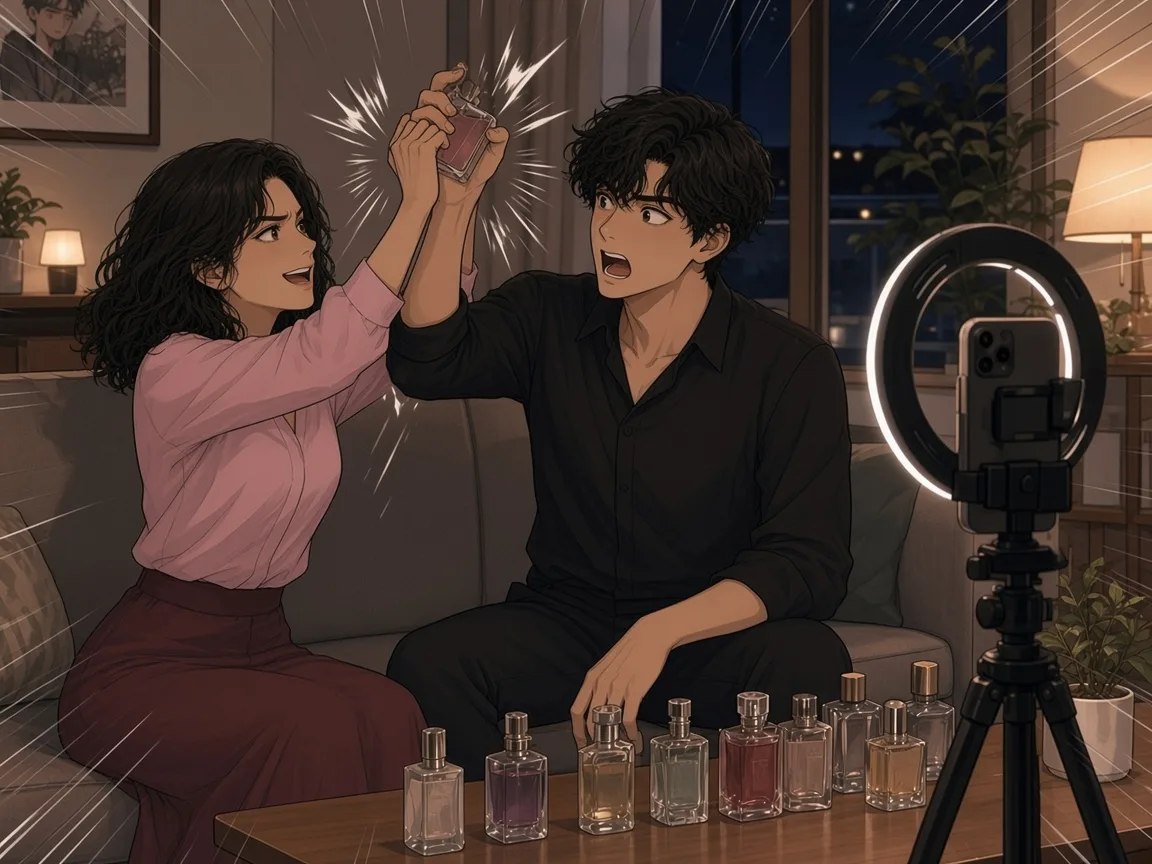
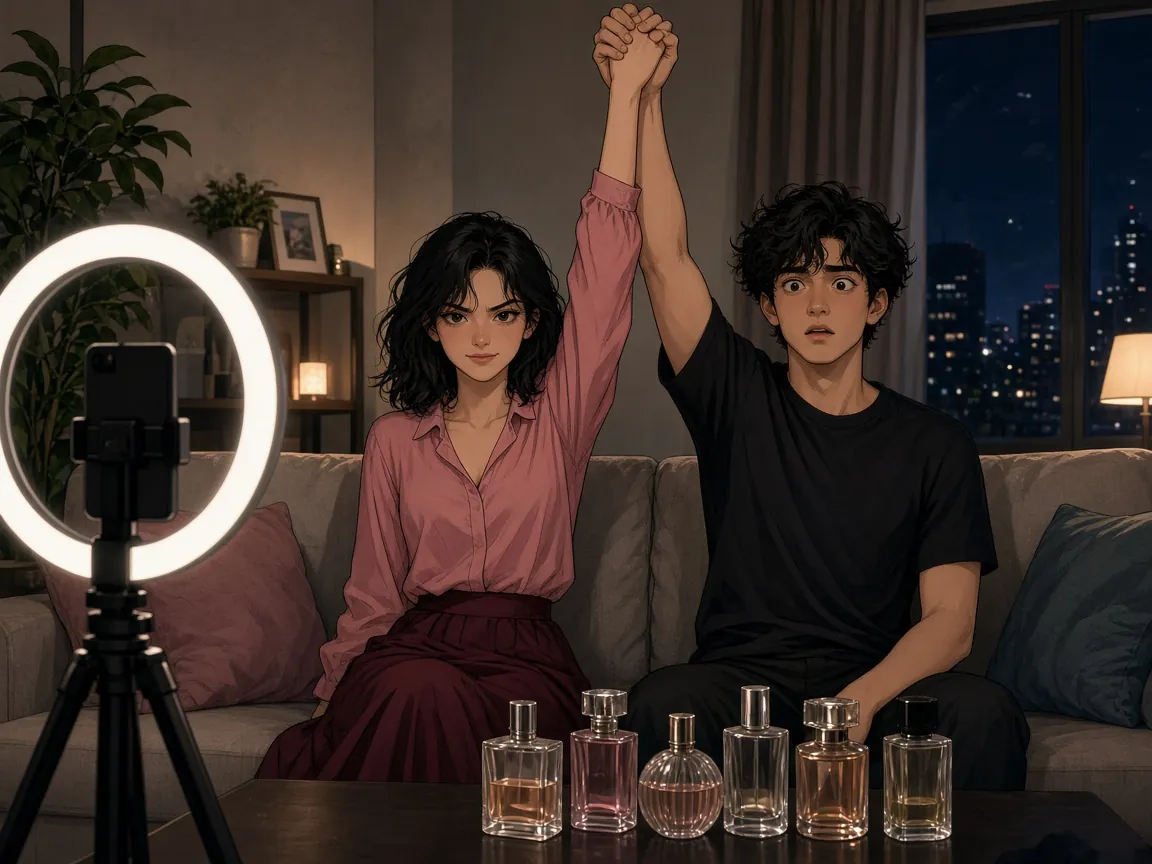
phone v4: image audit — fill imageless scenes, real gallery thumbs, fix mismatched images, show lines after gallery

diff --git a/phone/script-eps.js b/phone/script-eps.js
@@ -70,7 +70,7 @@ B.push(
  {k:'replay',th:'arya',n:4},
  {k:'inner',t:'Kuputar lagi. Dan lagi. Bagian “aku mau kamu yang minta”.|我又放了一遍。又一遍。“我想等你自己开口”那一句。'},
  {k:'gallery',clock:'06.30',seen:'seroja',t:'Kenangan · 10 tahun lalu hari ini|回忆 · 十年前的今天',focus:'p-seroja.webp',cap:'Konser perpisahan Seroja. Malam aku pingsan di lagu ketiga.|Seroja告别演唱会。我在第三首歌晕倒的那晚。',
-  items:[{img:'p-costume.webp',cap:'Sayap Mila (dijahit ulang)|Mila的翅膀（重新缝好）'},{c:'#f6d2c8',e:'🎂'},{c:'#c8dff6',e:'🏖'},{c:'#e8e0c8',e:'📄'},{img:'p-live.webp',cap:'Live, Kamis|周四直播'},{c:'#d8c8f6',e:'🎤'},{c:'#c8f6d8',e:'🌿'},{c:'#f6eec8',e:'⭐'}]},
+  items:[{img:'g-cake.webp',cap:'Ulang tahun Mila|Mila的生日'},{img:'g-beach.webp',cap:'Pantai, bertiga|海边，我们三个'},{img:'g-rehearsal.webp',cap:'Latihan Seroja · 10 tahun lalu|Seroja排练 · 十年前'},{img:'p-live.webp',cap:'Live, Kamis|周四直播'},{img:'g-dance.webp',cap:'Kelas tari Hana|Hana的舞蹈课'},{img:'g-perfume.webp',cap:'Stok parfum untuk live|直播用的香水'},{img:'g-balcony.webp',cap:'Balkon, sore|傍晚的阳台'},{img:'g-sleep.webp',cap:'Mereka tidur duluan|她们先睡着了'}]},
  {k:'inner',t:'Aku nggak pernah ingat siapa yang menangkapku. Cuma lampu.|我一直不记得是谁接住了我。只记得灯光。'},
  {k:'msg',th:'salma',clock:'06.41',time:'06.41',t:'Kak, semalam aku nggak bisa tidur mikirin kamu. Jangan bales DM aneh-aneh ya :)|姐，昨晚我一直想着你睡不着。别回那些奇怪的私信哦 :)'},
  {k:'inner',fx:'shake',t:'DM aneh? Aku belum cerita ke siapa pun soal DM itu.|奇怪的私信？那条私信的事，我还没跟任何人说过。'},
@@ -91,7 +91,7 @@ B.push(
  {k:'msg',th:'arya',time:'15.25',t:'Aku pakai kemeja. Dikancing sampai atas. Biar ibu-ibu tenang 😇|我穿了衬衫。扣子扣到最上面。让妈妈们安心😇'},
  {k:'msg',th:'arya',time:'15.25',gone:true,t:'Nanti kamu yang buka—|等会儿你来解开——'},
  {k:'inner',t:'Dihapus dalam dua detik. Aku sudah baca. Dia tahu aku sudah baca.|两秒就撤回了。我已经看到了。他知道我看到了。'},
- {k:'scene',clock:'15.40',tag:'15.40 · Aula SD Tunas Bangsa|15:40 · Tunas Bangsa小学礼堂',tint:'warm',lines:['Kursi B12. Di B11, sebuah tas krem sudah duduk lebih dulu.|B12座。B11上，一只米色手袋已经先坐下了。','Bu Ratna tersenyum seperti baru memenangkan sesuatu.|Ratna太太笑得像刚赢了什么。'],inner:'Raka di B14. Dia nggak menatapku.|Raka坐在B14。他没看我。'},
+ {k:'scene',clock:'15.40',tag:'15.40 · Aula SD Tunas Bangsa|15:40 · Tunas Bangsa小学礼堂',tint:'warm',img:'p-hall.webp',lines:['Kursi B12. Di B11, sebuah tas krem sudah duduk lebih dulu.|B12座。B11上，一只米色手袋已经先坐下了。','Bu Ratna tersenyum seperti baru memenangkan sesuatu.|Ratna太太笑得像刚赢了什么。'],inner:'Raka di B14. Dia nggak menatapku.|Raka坐在B14。他没看我。'},
  {k:'say',who:'R',ex:'neutral',t:'Ini Arya, ya? Masih kuliah, Nak?|你就是Arya吧？还在念书吗，孩子？'},
  {k:'say',who:'A',ex:'neutral',t:'Sudah kerja, Bu. Dua puluh delapan.|已经工作了，阿姨。二十八岁。'},
  {k:'say',who:'R',ex:'determined',t:'Oh. Barisan ini untuk keluarga. Kamu berdiri di belakang saja, ya.|哦。这排是家属座。你站后面吧。'},
@@ -131,7 +131,7 @@ B.push(
  {k:'msg',th:'raka',time:'16.45',t:'Dan berhenti nuduh Ibu soal foto-foto itu. Ibu bahkan nggak main Lensa.|还有，别再拿那些照片怀疑我妈。她连Lensa都不用。'},
  {k:'msg',th:'arya',clock:'17.05',time:'17.05',when:'e3seat=2',t:'Mobilmu panas banget. Kayak kamu tadi, pas bilang “dia 28”.|你的车好烫。就像你刚才说“他28”的时候。'},
  {k:'msg',th:'arya',clock:'17.05',time:'17.05',when:'e3seat!=2',t:'Mobilmu panas banget. Kayak tanganmu tadi.|你的车好烫。就像你刚才的手。'},
- {k:'scene',clock:'17.06',tag:'17.06 · Parkiran sekolah|17:06 · 学校停车场',tint:'warm',img:'p-carpark.webp',lines:['Pintu mobil membakar punggungku lewat blus tipis.|车门隔着薄衬衫烫着我的背。','Satu tangan Arya di atap mobil. Tangan lain di pinggangku.|Arya一只手撑在车顶，另一只手搭在我腰上。'],inner:'Anak-anak sudah pulang bersama neneknya. Untuk pertama kalinya hari ini, nggak ada yang menonton. Kukira.|孩子们已经跟奶奶回去了。今天第一次，没有人在看。我以为。'},
+ {k:'scene',clock:'17.06',tag:'17.06 · Parkiran sekolah|17:06 · 学校停车场',tint:'warm',img:'p-carpark-close.webp',lines:['Pintu mobil membakar punggungku lewat blus tipis.|车门隔着薄衬衫烫着我的背。','Satu tangan Arya di atap mobil. Tangan lain di pinggangku.|Arya一只手撑在车顶，另一只手搭在我腰上。'],inner:'Anak-anak sudah pulang bersama neneknya. Untuk pertama kalinya hari ini, nggak ada yang menonton. Kukira.|孩子们已经跟奶奶回去了。今天第一次，没有人在看。我以为。'},
  {k:'say',who:'A',ex:'soft',t:'Aku sudah sopan seharian, Kak. Boleh nggak sopan sekarang?|我规矩了一整天，姐。现在可以不规矩了吗？'},
  {k:'choice',key:'e3kiss',
   opts:[
@@ -150,14 +150,14 @@ B.push(
  {k:'msg',th:'salma',clock:'22.15',time:'22.15',t:'Kak, kamu baik-baik aja? Feeling-ku nggak enak malam ini :)|姐，你还好吗？我今晚总有种不好的预感 :)'},
  {k:'inner',t:'Salma selalu punya “feeling”. Dan selalu tepat waktu.|Salma总是有“预感”。而且总是来得刚刚好。'},
  {k:'lock',clock:'23.59',fx:'shake',notifs:[
-   {app:'Lensa',title:'@akungosip|@akungosip',thumb:'p-carpark.webp',t:'menandaimu: “Ciuman panas di parkiran sekolah anak 🔥”|标记了你：“在孩子学校停车场热吻🔥”',time:'23.58'},
+   {app:'Lensa',title:'@akungosip|@akungosip',thumb:'p-carpark-pap.webp',t:'menandaimu: “Ciuman panas di parkiran sekolah anak 🔥”|标记了你：“在孩子学校停车场热吻🔥”',time:'23.58'},
    {app:'Lensa',title:'ratna.wibisana|ratna.wibisana',t:'menyukai postingan @akungosip yang menandaimu|赞了@akungosip标记你的帖子',time:'23.59'}]},
  {k:'inner',fx:'shake',t:'“Ibu bahkan nggak main Lensa,” kata Raka. Akun itu dibuat tahun 2019.|“她连Lensa都不用，”Raka说。那个账号是2019年注册的。'},
  {k:'epend',ep:3,tease:'Pagi ini fotomu ditonton sejuta orang. Lumière menelepon — mereka mau Arya. Dengan mantannya.|今天早上，你的照片被一百万人看到。Lumière打来电话——他们要Arya。和他的前女友一起。'},
 
 // ================= EP 4 =================
  {k:'ep',ep:4,clock:'08.02',day:'Sabtu|星期六',prev:'Ciuman di parkiran. Kilat kamera. Dan “like” dari mantan mertua yang katanya gaptek.|停车场的吻。相机的闪光。还有据说不会用手机的前婆婆点的一个赞。'},
- {k:'lensa',fresh:true,clock:'08.02',post:{by:'@akungosip',img:'p-carpark.webp',views:'1,2 jt tayangan|120万次观看',likes:'Disukai ratna.wibisana dan 88.410 lainnya|ratna.wibisana 和其他 88,410 人赞了',cap:'Ciuman panas di parkiran sekolah anak 🔥 Janda vs brondong, ronde 2.|在孩子学校停车场热吻🔥 离婚妈妈vs小鲜肉，第二回合。'},
+ {k:'lensa',fresh:true,clock:'08.02',post:{by:'@akungosip',img:'p-carpark-pap.webp',views:'1,2 jt tayangan|120万次观看',likes:'Disukai ratna.wibisana dan 88.410 lainnya|ratna.wibisana 和其他 88,410 人赞了',cap:'Ciuman panas di parkiran sekolah anak 🔥 Janda vs brondong, ronde 2.|在孩子学校停车场热吻🔥 离婚妈妈vs小鲜肉，第二回合。'},
   cmts:['@tante_julid: Di sekolah anak?? 🤢|@tante_julid：在孩子学校？？🤢','@hanya_lewat: Jujur… mereka cocok 😭|@hanya_lewat：说实话……他们好配😭','@sheila.kirana: Dia masih cium kayak gitu ya 🖤|@sheila.kirana：他还是那样吻人啊🖤']},
  {k:'inner',t:'sheila.kirana. Dua juta pengikut. Mantannya Arya.|sheila.kirana。两百万粉丝。Arya的前任。'},
  {k:'msg',th:'group',clock:'08.03',time:'08.03',from:'Bu Sinta|Sinta太太',t:'Sudah sejuta views ya Bu-ibu 🍿 Sekolah harus tegas!|已经一百万播放了各位🍿 学校必须严肃处理！'},
@@ -166,7 +166,7 @@ B.push(
  {k:'line',who:'Y',t:'Lihat angkanya? Satu koma dua juta. Lumière telepon jam enam pagi.|看到数字了吗？一百二十万。Lumière早上六点就打来了。'},
  {k:'line',who:'N',t:'Mereka mau batalin semuanya?|他们要全部取消？'},
  {k:'line',who:'Y',t:'Kebalikannya. Mereka mau Arya jadi wajah parfum baru. Tapi pasangannya bukan kamu — Sheila.|恰恰相反。他们要Arya做新香水的代言人。但搭档不是你——是Sheila。'},
- {k:'scene',clock:'10.00',tag:'10.00 · Ruang rapat Lumière, lantai 21|10:00 · Lumière会议室，21楼',tint:'cold',lines:['Botol parfum di tengah meja. Label: No.7.|会议桌中间摆着香水瓶。标签：No.7。','Sheila sudah duduk di sebelah Arya. Kursiku di seberang.|Sheila已经坐在Arya旁边。我的位子在对面。'],inner:'Maya duduk di ujung meja, tenang sekali. Terlalu tenang.|Maya坐在桌子一头，非常平静。平静得过头了。'},
+ {k:'scene',clock:'10.00',tag:'10.00 · Ruang rapat Lumière, lantai 21|10:00 · Lumière会议室，21楼',tint:'cold',img:'p-meeting.webp',lines:['Botol parfum di tengah meja. Label: No.7.|会议桌中间摆着香水瓶。标签：No.7。','Sheila sudah duduk di sebelah Arya. Kursiku di seberang.|Sheila已经坐在Arya旁边。我的位子在对面。'],inner:'Maya duduk di ujung meja, tenang sekali. Terlalu tenang.|Maya坐在桌子一头，非常平静。平静得过头了。'},
  {k:'say',who:'SH',t:'Kak Nadira! Aku fans Seroja dari SD lho 🖤|Nadira姐！我从小学就是Seroja的粉丝哦🖤'},
  {k:'scap',t:'Dari SD. Dia memastikan semua orang di ruangan menghitung umurku.|从小学。她确保在场每个人都算了一遍我的年龄。'},
  {k:'msg',th:'arya',clock:'10.06',time:'10.06',t:'(di bawah meja) Dia pakai No.7 sengaja. Aku nggak pernah pakai lagi sejak ketemu kamu.|（桌子底下）她故意喷No.7的。自从遇见你，我再没用过。'},
@@ -200,7 +200,7 @@ B.push(
    {t:'“Parfumnya sudah ganti, Dek. Sejak ketemu aku.”|“香水早换了，妹妹。从遇见我开始。”',a:1,re:[
      {k:'scap',t:'Sheila tertawa kecil. Arya nggak membantah.|Sheila轻笑一声。Arya没有反驳。'},
      {k:'say',who:'A',ex:'soft',t:'Benar. Sudah ganti.|没错。早换了。'}]}]},
- {k:'live',fresh:true,clock:'20.00',img:'p-live.webp',viewers:31200,cmt:'@kolom_komentar: KAK NADIRA SAMA ARYA LAGI 🔥|@kolom_komentar：Nadira姐和Arya又同框了🔥'},
+ {k:'live',fresh:true,clock:'20.00',img:'p-live-studio.webp',viewers:31200,cmt:'@kolom_komentar: KAK NADIRA SAMA ARYA LAGI 🔥|@kolom_komentar：Nadira姐和Arya又同框了🔥'},
  {k:'live',viewers:52800,gift:'💐',cmt:'@sheila.kirana bergabung sebagai tamu ✨|@sheila.kirana 作为嘉宾加入✨'},
  {k:'live',viewers:61400,cmt:'@tante_julid: Mertuanya nangis di rumah, dia live pacaran 🙄|@tante_julid：婆婆在家哭，她在直播谈恋爱🙄'},
  {k:'live',viewers:66800,gift:'🌹',cmt:'@salma.r: Kak Nadira ❤ semangat! (aku rekam ya buat kenangan)|@salma.r：Nadira姐❤加油！（我录下来留念哦）'},
@@ -245,7 +245,7 @@ B.push(
  {k:'msg',th:'arya',clock:'00.22',time:'00.22',t:'Aku lagi antre bubur dekat rumahmu. Kamu belum makan dari siang, kan.|我在你家附近排队买粥。你从中午就没吃东西吧。'},
  {k:'msg',th:'arya',time:'00.22',t:'Bilang aja “jangan”, nanti aku taruh di pagar terus pulang.|你说“别来”，我就把粥挂在门上然后回去。'},
  {k:'inner',t:'Aku nggak membalas. Raka sudah berdiri di depan pintu.|我没回。Raka已经站在门口了。'},
- {k:'scene',clock:'00.24',tag:'00.24 · Ruang tamu, dua mug|00:24 · 客厅，两只马克杯',tint:'night',lines:['Raka membuka map. Satu baris dilingkari merah: Rp1,8 juta.|Raka打开文件夹。一行被红笔圈了出来：180万。','“Les tari Hana. Dari rekening bersama. Untuk siapa sebenarnya?”|“Hana的舞蹈课。从共同账户付的。到底花在谁身上？”'],inner:'Anak-anak tidur di rumah neneknya. Rumah ini terlalu sunyi untuk bertengkar.|孩子们睡在奶奶家。这房子太安静了，不适合吵架。'},
+ {k:'scene',clock:'00.24',tag:'00.24 · Ruang tamu, dua mug|00:24 · 客厅，两只马克杯',tint:'night',img:'p-raka-folder.webp',lines:['Raka membuka map. Satu baris dilingkari merah: Rp1,8 juta.|Raka打开文件夹。一行被红笔圈了出来：180万。','“Les tari Hana. Dari rekening bersama. Untuk siapa sebenarnya?”|“Hana的舞蹈课。从共同账户付的。到底花在谁身上？”'],inner:'Anak-anak tidur di rumah neneknya. Rumah ini terlalu sunyi untuk bertengkar.|孩子们睡在奶奶家。这房子太安静了，不适合吵架。'},
  {k:'say',who:'K',ex:'angry',t:'Ibu bilang kamu pakai uang anak-anak buat laki-laki itu.|妈说你拿孩子们的钱养那个男人。'},
  {k:'choice',key:'e5bill',
   opts:[
@@ -263,7 +263,7 @@ B.push(
  {k:'inner',fx:'shake',t:'Deskripsi grupnya. Kalimat yang dua hari ini diketik Nadira yang lama untukku.|群简介。这两天以前的Nadira一直替我打的那句话。'},
  {k:'inner',t:'Itu bukan suaraku. Itu suara keluarga ini. Sembilan tahun aku memakainya.|那不是我的声音。是这个家的声音。我用了九年。'},
  {k:'wallet',clock:'00.40',ok:true,merchant:'Transfer masuk · RAKA PRADANA|转入 · RAKA PRADANA',amt:'Rp95.000.000',t:'Catatan: “Sisa tagihan sekolah. Maaf.”|备注：“学费余款。对不起。”'},
- {k:'scene',clock:'00.42',tag:'00.42 · Dua mug di meja|00:42 · 桌上两只马克杯',tint:'night',lines:['Yang biru punya dia, sembilan tahun. Dia masih memegangnya dengan tangan kiri.|蓝色那只是他的，用了九年。他还是用左手拿。','Lalu, pelan sekali:|然后，很轻地：']},
+ {k:'scene',clock:'00.42',tag:'00.42 · Dua mug di meja|00:42 · 桌上两只马克杯',tint:'night',img:'p-mugs.webp',lines:['Yang biru punya dia, sembilan tahun. Dia masih memegangnya dengan tangan kiri.|蓝色那只是他的，用了九年。他还是用左手拿。','Lalu, pelan sekali:|然后，很轻地：']},
  {k:'say',who:'K',ex:'neutral',t:'Kenapa kamu pergi, Nad?|你为什么要走，Nad？'},
  {k:'choice',key:'e5why',
   opts:[
@@ -276,7 +276,7 @@ B.push(
    {t:'“Kamu selalu memilih ibumu.”|“你永远站在你妈那边。”',re:[
      {k:'say',who:'K',ex:'angry',t:'Itu nggak adil.|这不公平。'},
      {k:'say',who:'N',ex:'determined',t:'Grup keluargamu punya motto, Raka. Aku hafal.|你们家族群有座右铭，Raka。我背得出来。'}]}]},
- {k:'scene',clock:'00.58',tag:'00.58 · Pintu depan|00:58 · 大门口',tint:'night',lines:['Raka berhenti di ambang pintu. Dia nggak menoleh.|Raka在门口停下。没有回头。','Hujan mulai turun di paving.|雨开始落在地砖上。']},
+ {k:'scene',clock:'00.58',tag:'00.58 · Pagar depan|00:58 · 院门口',tint:'night',img:'p-gate-night.webp',lines:['Raka berhenti di pagar. Dia nggak menoleh.|Raka在院门口停下。没有回头。','Hujan mulai turun di paving.|雨开始落在地砖上。']},
  {k:'say',who:'K',ex:'angry',t:'Satu lagi. Ibu bilang kamu sudah tidur sama dia sebelum kita cerai.|还有一件事。妈说你在我们离婚之前就跟他睡过了。'},
  {k:'scap',img:'p-porridge.webp',fx:'shake',t:'Plastik jatuh di pagar. Bubur ayam tumpah ke paving yang basah.|塑料袋掉在门口。鸡肉粥洒在湿漉漉的地砖上。'},
  {k:'say',who:'K',ex:'angry',t:'Tanya sendiri sama dia, Dek. Sejak kapan.|你自己问她吧，小弟。从什么时候开始的。'},
@@ -300,7 +300,7 @@ B.push(
  {k:'msg',th:'arya',mine:true,time:'01.24',t:'Tunggu. Aku turun.|等着。我下来。'},
  {k:'msg',th:'arya',time:'01.24',t:'Pakai jaket. Dan payung. Dan… nggak usah dandan.|穿外套。带伞。还有……不用化妆。'},
  {k:'msg',th:'arya',time:'01.25',t:'Aku beli bubur lagi. Yang tanpa kacang.|我又买了粥。不放花生的。'},
- {k:'scene',clock:'01.31',tag:'01.31 · Warung bubur, hujan deras|01:31 · 粥摊，大雨',tint:'night',lines:['Terpal biru, satu bohlam, panci yang mengepul.|蓝色篷布，一只灯泡，冒着热气的锅。','Arya menyodorkan mangkuk. Tanpa kacang. Dia ingat.|Arya把碗推过来。没放花生。他记得。'],inner:'Aku nggak pernah bilang ke dia aku nggak suka kacang.|我从没跟他说过我不吃花生。'},
+ {k:'scene',clock:'01.31',tag:'01.31 · Warung bubur, hujan deras|01:31 · 粥摊，大雨',tint:'night',img:'p-stall.webp',lines:['Terpal biru, satu bohlam, panci yang mengepul.|蓝色篷布，一只灯泡，冒着热气的锅。','Arya menyodorkan mangkuk. Tanpa kacang. Dia ingat.|Arya把碗推过来。没放花生。他记得。'],inner:'Aku nggak pernah bilang ke dia aku nggak suka kacang.|我从没跟他说过我不吃花生。'},
  {k:'say',who:'A',ex:'soft',t:'Aku nggak akan tanya yang Raka bilang.|Raka说的，我不会问。'},
  {k:'choice',key:'e6truth',
   opts:[

diff --git a/phone/script.js b/phone/script.js
@@ -36,7 +36,7 @@ const BEATS=[
      {k:'inner',t:'Sunyi. Tapi fotonya tetap di sana.|安静了。可照片还在那里。'}]}],
   ifPilot:[{k:'inner',fx:'shake',t:'Itu bukan aku yang mengetik. Itu Nadira yang lama.|刚才打字的不是我。是以前的Nadira。'}],
   ifMe:[{k:'inner',t:'Sembilan tahun dia mengetik untukku. Pagi ini nggak.|九年来都是她替我打字。今天早上不是。'}]},
- {k:'scene',clock:'06.41',tag:'06.41 · Dapur|06:41 · 厨房',tint:'cold',lines:['Hana berdiri di pintu dapur, ponsel pengasuh di tangannya.|Hana站在厨房门口，手里攥着保姆的手机。','Layarnya menyala. Fotoku.|屏幕亮着。是我的照片。'],inner:'Dia sudah lihat. Anakku sudah lihat.|她看到了。我女儿看到了。'},
+ {k:'scene',clock:'06.41',tag:'06.41 · Dapur|06:41 · 厨房',tint:'cold',img:'p-hana-phone.webp',lines:['Hana berdiri di pintu dapur, ponsel pengasuh di tangannya.|Hana站在厨房门口，手里攥着保姆的手机。','Layarnya menyala. Fotoku.|屏幕亮着。是我的照片。'],inner:'Dia sudah lihat. Anakku sudah lihat.|她看到了。我女儿看到了。'},
  {k:'say',who:'H',ex:'hurt',t:'Mama… orang jahat?|妈妈……是坏人吗？'},
  {k:'act',key:'kneel',mode:'tap',in:'scene',btn:'🤲 Berlutut, raih tangannya|🤲 蹲下来，去牵她的手',done:'Aku berlutut. Hana mundur selangkah dari tanganku.|我蹲下来。Hana从我手边退了一步。'},
  {k:'say',who:'N',ex:'hurt',t:'Itu bukan Mama, Sayang. Ada orang bikin foto bohong.|那不是妈妈，宝贝。有人做了假照片。'},

diff --git a/phone/phone.js b/phone/phone.js
@@ -54,7 +54,7 @@ function derive(tl,n){const S={day:'Kamis|星期四',clock:'06.40',view:'lock',l
    case 'mail':S.view='mail';S.mail=b;break;
    case 'wallet':S.view='wallet';S.wallet=b;break;
    case 'scene':S.view='scene';S.scene={...b,items:[],img:b.img||null,_i:i};break;
-   case 'say':case 'scap':if(S.scene){S.scene.items.push({...b,_i:i});if(b.img)S.scene.img=b.img;}break;
+   case 'say':case 'scap':if(S.scene){if(S.view==='gallery')S.view='scene';S.scene.items.push({...b,_i:i});if(b.img)S.scene.img=b.img;}break;
    case 'live':S.view='live';if(b.fresh)S.live={cmts:[],viewers:0,img:b.img||'p-live.webp',pin:null,gift:null};S.live.host=b.fresh?b.host:S.live.host;S.live.cap=b.cap?{t:b.cap,_i:i}:S.live.cap;S.live.frame=b.frame?{...b,_i:i}:null;if(b.hot)S.live.hot={t:b.hot,_i:i};if(b.ended)S.live.ended={...b,_i:i};if(b.img)S.live.img=b.img;if(b.viewers)S.live.viewers=b.viewers;if(b.cmt)S.live.cmts.push({t:b.cmt,_i:i});if(b.pin){S.live.pin=b.pin;S.live.bill=!!b.bill;}if(b.gift)S.live.gift={g:b.gift,_i:i};break;
    case 'call':S.view='call';S.call={...b,lines:[]};break;
    case 'line':if(S.call){S.call.lines.push({...b,_i:i});S.call.on=true;S.view='call';}break;

diff --git a/phone/README.md b/phone/README.md
@@ -31,4 +31,10 @@ Checkpoints (update as each lands):
   - id (ad unlock): ep1 215s/8 · ep2 192s/3 · ep3 148s/3 · ep4 159s/4 · ep5 153s/4 · ep6 119s/3 · total 990s
 - [x] shots v3 → /workspace/story/out/phone-shots-v3/ (zh-ep1-4, zh-ep5-6, id, paywall-flow-zh, contact sheets, smoke json)
 - [x] video → /workspace/story/out/transition-videos/phone-v3-paywall-zh.{webm,mp4} (ep5 end → paywall → pass → ep6, 62s)
-- [ ] deploy /phone/ + md5 verify
+- [x] deploy /phone/ + md5 verify (commit 545b3d9, 02:31 SGT, 101 files 0 mismatches, live id/zh 0 errors)
+
+## Checkpoint v4 — image audit (2026-10-23)
+- Filled 7 imageless scenes (ep1 06:41, ep3 15:40, ep4 10:00, ep5 00:24/00:42/00:58, ep6 01:31) and replaced ep2 gallery color placeholders with g-*.webp thumbs.
+- Fixed mismatches: p-carpark → p-carpark-close (scene) + p-carpark-pap (paparazzi shot); ep4 live → p-live-studio; p-hands regenerated; ep5 00:58 text = gate.
+- phone.js: say/scap after a gallery switches back to scene view (ep6 lines + p-rain were hidden).
+- Tools: smoke/imgsweep.js (all variants, naturalWidth/4xx/console), smoke/imgshots.js (in-context screenshots). Audit: ../phone-shots-v4/AUDIT-images-v4.md
